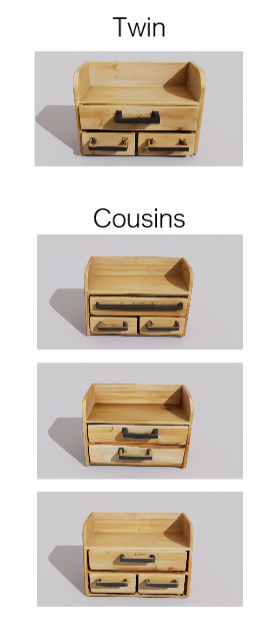
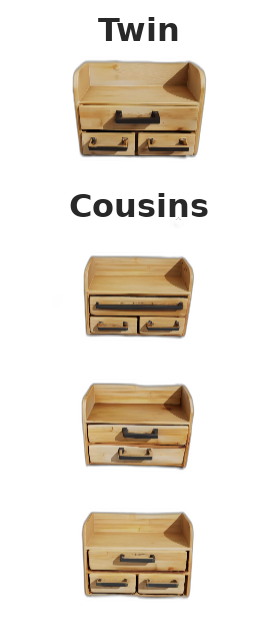
Stat cards, chart grow animations, and section polish
- Replace repeated task-cousins stat sentences with two before/after stat
  cards (28%->46%, 0%->29%) with count-up numbers and mini bars
- Animate co-training and SAM3D metric bar charts up from zero on first view
- Trim Stack Dishware sim eval video to first 38s
- Shrink co-training bar chart (360px -> 260px) and floating cousins cutout
- Pre-select the largest object in the Reconstructed Objects viewer
- Shorten co-training section title; keep stat card titles on one line

diff --git a/static/css/index.css b/static/css/index.css
@@ -660,8 +660,8 @@ a:hover { color: var(--color-accent-dark); text-decoration: underline; }
 }
 .cousin-fig {
   position: absolute;
-  top: 12px;
-  bottom: 12px;
+  top: 28px;
+  bottom: 28px;
   left: 12px;
   margin: 0;
   z-index: 2;
@@ -670,23 +670,92 @@ a:hover { color: var(--color-accent-dark); text-decoration: underline; }
   display: block;
   height: 100%;
   width: auto;
-  border-radius: 8px;
-  border: 2px solid rgba(255, 255, 255, 0.9);
-  box-shadow: 0 6px 22px rgba(0, 0, 0, 0.45);
+  /* transparent cutout floats over the video; shadow follows the object shapes */
+  filter: drop-shadow(0 4px 10px rgba(0, 0, 0, 0.55));
 }
 @media (max-width: 720px) {
-  .cousin-fig { top: 8px; bottom: 8px; left: 8px; }
+  .cousin-fig { top: 16px; bottom: 16px; left: 8px; }
 }
 
-/* Force a single subsection line (font scales with viewport to fit). */
-.subsection-title.oneline {
-  white-space: nowrap;
-  width: max-content;
-  max-width: 96vw;
-  font-size: clamp(0.7rem, 1.7vw, 1.4rem);
+/* ----------- Stat cards (task-cousins section) ----------- */
+.stat-lead {
+  text-align: center;
+  font-size: clamp(1rem, 1.9vw, 1.45rem);
+  font-weight: 600;
+  margin: 0 0 18px;
 }
+.stat-cards {
+  display: grid;
+  grid-template-columns: repeat(2, minmax(0, 1fr));
+  gap: 20px;
+  max-width: 940px;
+  margin: 0 auto;
+}
+.stat-card {
+  background: var(--color-card);
+  border: 1px solid var(--color-border);
+  border-radius: var(--radius-md);
+  box-shadow: 0 2px 10px var(--color-card-shadow);
+  padding: 18px 24px 22px;
+  text-align: center;
+}
+.stat-card-title {
+  font-weight: 600;
+  /* Keep titles like "On 7 held-out tasks (unseen even in sim)" on one line:
+     no wrapping, font scales down with the viewport instead. */
+  white-space: nowrap;
+  font-size: clamp(0.72rem, 1.15vw, 1rem);
+}
+.stat-card-note { font-size: 0.8em; color: var(--color-text-muted); font-weight: 500; }
+.stat-compare {
+  display: flex;
+  align-items: baseline;
+  justify-content: center;
+  gap: 12px;
+  margin: 6px 0 14px;
+}
+.stat-from {
+  font-size: 1.8rem;
+  font-weight: 700;
+  color: var(--color-text-muted);
+}
+.stat-arrow { font-size: 1.5rem; color: var(--color-text-muted); }
+.stat-to {
+  font-size: 2.5rem;
+  font-weight: 700;
+  line-height: 1;
+  color: var(--color-stanford-red);
+}
+.stat-bar-row {
+  display: grid;
+  grid-template-columns: 8.2em 1fr;
+  align-items: center;
+  gap: 10px;
+  margin-top: 8px;
+}
+.stat-bar-label {
+  font-size: 0.82rem;
+  color: var(--color-text-muted);
+  text-align: right;
+  white-space: nowrap;
+}
+.stat-bar-track {
+  height: 12px;
+  background: #eef0f3;
+  border-radius: 999px;
+  overflow: hidden;
+}
+.stat-bar {
+  height: 100%;
+  width: calc(var(--v) * 1%);
+  min-width: 4px; /* keep the 0% baseline visible as a sliver */
+  border-radius: inherit;
+  transition: width 0.9s cubic-bezier(0.22, 0.61, 0.36, 1);
+}
+.stat-bar--base { background: #b9bec7; }
+.stat-bar--boost { background: var(--color-stanford-red); }
 @media (max-width: 720px) {
-  .subsection-title.oneline { white-space: normal; width: min(1200px, 92vw); }
+  .stat-cards { grid-template-columns: 1fr; }
 }
 
 /* Keep the Task Cousins heading on one line (override base wrap/width). */
@@ -776,7 +845,7 @@ a:hover { color: var(--color-accent-dark); text-decoration: underline; }
 .barchart-ylabel {
   writing-mode: vertical-rl;
   transform: rotate(180deg);
-  height: 360px;
+  height: 260px;
   display: flex;
   align-items: center;
   justify-content: center;
@@ -784,7 +853,7 @@ a:hover { color: var(--color-accent-dark); text-decoration: underline; }
   font-size: 0.9rem;
 }
 .barchart-yaxis {
-  height: 360px;
+  height: 260px;
   display: flex;
   flex-direction: column;
   justify-content: space-between;
@@ -795,7 +864,7 @@ a:hover { color: var(--color-accent-dark); text-decoration: underline; }
 .barchart-col3 { min-width: 0; }
 .barchart-plot {
   position: relative;
-  height: 360px;
+  height: 260px;
   border-left: 2px solid var(--color-border);
   border-bottom: 2px solid var(--color-border);
 }
@@ -822,11 +891,11 @@ a:hover { color: var(--color-accent-dark); text-decoration: underline; }
   max-width: 28%;
   height: calc(var(--v) * 1%);
   border-radius: 3px 3px 0 0;
-  transition: height 0.6s ease-out;
+  transition: height 0.9s cubic-bezier(0.22, 0.61, 0.36, 1);
 }
 .bar-sim { background: #3b9aff; }
-.bar-real { background: #5cd65c; }
-.bar-cotrain { background: #ff6f61; }
+.bar-real { background: #5cd65c; transition-delay: 0.15s; }
+.bar-cotrain { background: #ff6f61; transition-delay: 0.3s; }
 .bar-val {
   position: absolute;
   top: -22px;
@@ -835,7 +904,17 @@ a:hover { color: var(--color-accent-dark); text-decoration: underline; }
   font-size: 0.95rem;
   font-weight: 600;
   color: var(--color-text);
+  transition: opacity 0.35s ease 0.9s;
 }
+
+/* First-view grow animation: JS marks `[data-chart-grow]` charts as pending
+   on load and releases them when they scroll into view, so bars rise from
+   zero to their real values. Without JS the static rules above apply. */
+.chart-grow-pending .bar { height: 0; }
+.chart-grow-pending .bar-val { opacity: 0; transition: none; }
+.chart-grow-pending .stat-bar { width: 0; min-width: 0; }
+.chart-grow-pending .mbar { height: 0; }
+.chart-grow-pending .mbar span { opacity: 0; transition: none; }
 .barchart-xlabels { display: flex; margin-top: 8px; }
 .barchart-xlabels span {
   flex: 1;
@@ -887,6 +966,7 @@ a:hover { color: var(--color-accent-dark); text-decoration: underline; }
   max-width: 34px;
   height: calc(var(--v) * 1%);
   border-radius: 3px 3px 0 0;
+  transition: height 0.9s cubic-bezier(0.22, 0.61, 0.36, 1);
 }
 .mbar span {
   position: absolute;
@@ -896,6 +976,7 @@ a:hover { color: var(--color-accent-dark); text-decoration: underline; }
   font-size: 0.6rem;
   white-space: nowrap;
   color: var(--color-text);
+  transition: opacity 0.35s ease 0.9s;
 }
 .mbar-sam { background: #3b9aff; }
 .mbar-zs { background: #5cd65c; }

diff --git a/static/js/viewers.js b/static/js/viewers.js
@@ -159,6 +159,50 @@ function wireLazyAutoplayVideos() {
   videos.forEach((video) => io.observe(video));
 }
 
+// Count `[data-countup]` numbers (e.g. "46%") up from zero, keeping any
+// non-numeric suffix. Runs alongside the bar-grow transition below.
+function animateCountUps(root) {
+  root.querySelectorAll("[data-countup]").forEach((el) => {
+    const target = parseFloat(el.textContent);
+    if (!isFinite(target)) return;
+    const suffix = el.textContent.replace(/^[\d.]+/, "");
+    const duration = 900;
+    const start = performance.now();
+    const tick = (now) => {
+      const t = Math.min((now - start) / duration, 1);
+      const eased = 1 - Math.pow(1 - t, 3); // ease-out, matches the bar curve
+      el.textContent = Math.round(target * eased) + suffix;
+      if (t < 1) requestAnimationFrame(tick);
+    };
+    requestAnimationFrame(tick);
+  });
+}
+
+// Charts marked with `data-chart-grow` start zeroed out and grow to their
+// real values the first time they scroll into view. Skipped (charts render
+// fully grown) for reduced-motion users and, via whenVisible's fallback,
+// where IntersectionObserver isn't available.
+function wireChartGrowAnimations() {
+  const charts = Array.from(document.querySelectorAll("[data-chart-grow]"));
+  if (!charts.length) return;
+  const reduceMotion =
+    window.matchMedia && window.matchMedia("(prefers-reduced-motion: reduce)").matches;
+  if (reduceMotion) return;
+  charts.forEach((chart) => {
+    chart.classList.add("chart-grow-pending");
+    whenVisible(
+      chart,
+      () => {
+        // Commit the zeroed layout before releasing it so the change animates.
+        void chart.offsetHeight;
+        chart.classList.remove("chart-grow-pending");
+        animateCountUps(chart);
+      },
+      { rootMargin: "-80px 0px" },
+    );
+  });
+}
+
 const SCENE_MANIFESTS = {
   "nv_desk":        "assets/viewers/nv_desk/scene.json",
   "kitchen_2_demo": "assets/viewers/kitchen_2_demo/scene.json",
@@ -1103,7 +1147,19 @@ async function wireInteractiveObjects() {
 
     objects = built.filter(Boolean).sort((a, b) => a.area - b.area); // smaller on top
     redraw();
+
+    // Pre-select a fixed default (the largest object — visually prominent and
+    // stable across reloads) so the mesh viewer starts populated instead of
+    // waiting for the user's first click.
+    if (objects.length) selectObject(objects[objects.length - 1]);
   }
+
+  const selectObject = (o) => {
+    selected = o;
+    redraw();
+    if (selectedLabel) selectedLabel.textContent = `— ${o.label}`;
+    loadMesh(meshContainer, o.url);
+  };
 
   sceneEl.addEventListener("mousemove", (ev) => {
     const [px, py] = toPixel(ev);
@@ -1135,10 +1191,7 @@ async function wireInteractiveObjects() {
     const [px, py] = toPixel(ev);
     const o = objectAt(px, py);
     if (!o) return;
-    selected = o;
-    redraw();
-    if (selectedLabel) selectedLabel.textContent = `— ${o.label}`;
-    loadMesh(meshContainer, o.url);
+    selectObject(o);
   });
 
   // Build the scene tab buttons and wire switching.
@@ -1171,6 +1224,7 @@ async function wireInteractiveObjects() {
 
 function init() {
   wireLazyAutoplayVideos();
+  wireChartGrowAnimations();
   wireTabbedViewer("scene-tabs", "scene-splat-viewer", SCENE_MANIFESTS, "scene-target");
   wireInteractiveObjects();
   wireSam3dComparison();

diff --git a/index.html b/index.html
@@ -13,7 +13,7 @@
 
 <link href="https://fonts.googleapis.com/css2?family=Source+Sans+3:wght@400;500;600;700&family=Source+Serif+4:opsz,wght@8..60,400;8..60,600;8..60,700&display=swap" rel="stylesheet" />
 
-<link rel="stylesheet" href="static/css/index.css?v=38" />
+<link rel="stylesheet" href="static/css/index.css?v=40" />
 
 <script type="importmap">
 {
@@ -608,7 +608,7 @@
           <figure class="qualitative-panel">
             <div class="qualitative-media">
               <video muted loop controls playsinline preload="none">
-                <source data-src="static/videos/real2sim/Stack_Dishware_sim.mp4" type="video/mp4" />
+                <source data-src="static/videos/real2sim/Stack_Dishware_sim.mp4?v=2" type="video/mp4" />
               </video>
             </div>
             <figcaption>SimFoundry<br><span class="success-rate">Success Rate: 64%</span></figcaption>
@@ -740,7 +740,7 @@
     <h3 class="subsection-title">SimFoundry Digital Cousins Enable Policy Generalization to <span class="accent-red">Novel Objects</span></h3>
     <div class="cousin-row">
       <figure class="cousin-fig">
-        <img src="static/images/wooden_drawer_cousins.png" alt="Digital twin and cousins of the wooden drawer organizer" />
+        <img src="static/images/wooden_drawer_cousins.png?v=3" alt="Digital twin and cousins of the wooden drawer organizer" />
       </figure>
       <div class="policy-media">
         <video loop muted playsinline preload="none" data-lazy-autoplay>
@@ -756,8 +756,45 @@
   <div class="container">
     <h2 class="section-title">SimFoundry generates meaningful <span class="accent-red">Task Cousins</span> that facilitate policy generalization</h2>
     <div class="stat-block">
-      <p class="subsection-title">SimFoundry data boosts real-world VLA performance from <span class="accent-red">28%</span> to <span class="accent-red">46%</span> across <span class="accent-red">13</span> tasks.</p>
-      <p class="subsection-title oneline">SimFoundry data boosts real-world VLA performance from <span class="accent-red">0%</span> to <span class="accent-red">29%</span> on <span class="accent-red">7</span> held-out tasks (unseen even in sim).</p>
+      <p class="stat-lead">SimFoundry data boosts real-world VLA performance</p>
+      <div class="stat-cards" data-chart-grow>
+        <div class="stat-card">
+          <div class="stat-card-title">Across <span class="accent-red">13</span> tasks</div>
+          <div class="stat-compare">
+            <span class="stat-from">28%</span>
+            <span class="stat-arrow" aria-hidden="true">&rarr;</span>
+            <span class="stat-to" data-countup>46%</span>
+          </div>
+          <div class="stat-bars">
+            <div class="stat-bar-row">
+              <span class="stat-bar-label">w/o SimFoundry</span>
+              <div class="stat-bar-track"><div class="stat-bar stat-bar--base" style="--v:28"></div></div>
+            </div>
+            <div class="stat-bar-row">
+              <span class="stat-bar-label">w/ SimFoundry</span>
+              <div class="stat-bar-track"><div class="stat-bar stat-bar--boost" style="--v:46"></div></div>
+            </div>
+          </div>
+        </div>
+        <div class="stat-card">
+          <div class="stat-card-title">On <span class="accent-red">7</span> held-out tasks <span class="stat-card-note">(unseen even in sim)</span></div>
+          <div class="stat-compare">
+            <span class="stat-from">0%</span>
+            <span class="stat-arrow" aria-hidden="true">&rarr;</span>
+            <span class="stat-to" data-countup>29%</span>
+          </div>
+          <div class="stat-bars">
+            <div class="stat-bar-row">
+              <span class="stat-bar-label">w/o SimFoundry</span>
+              <div class="stat-bar-track"><div class="stat-bar stat-bar--base" style="--v:0"></div></div>
+            </div>
+            <div class="stat-bar-row">
+              <span class="stat-bar-label">w/ SimFoundry</span>
+              <div class="stat-bar-track"><div class="stat-bar stat-bar--boost" style="--v:29"></div></div>
+            </div>
+          </div>
+        </div>
+      </div>
     </div>
     <div class="video-duo">
       <figure class="duo-col">
@@ -783,9 +820,9 @@
 <!-- ========================= CO-TRAINING ========================= -->
 <section class="section" id="co-training">
   <div class="container">
-    <h2 class="section-title">Co-Training with Large Amounts of SimFoundry Sim Data and Small Amounts of Real Data Produces Even Better Policies</h2>
+    <h2 class="section-title">Co-Training SimFoundry Sim Data and Small Amounts of Real Data Produces Even Better Policies</h2>
 
-    <figure class="barchart">
+    <figure class="barchart" data-chart-grow>
       <div class="barchart-legend">
         <span class="legend-item"><span class="legend-swatch swatch-sim"></span>Sim-only</span>
         <span class="legend-item"><span class="legend-swatch swatch-real"></span>Real-only</span>
@@ -912,7 +949,7 @@
       </div>
     </div>
 
-    <div class="metric-charts">
+    <div class="metric-charts" data-chart-grow>
       <div class="metric-panels">
         <div class="metric-panel">
           <div class="metric-panel-title">Easy Scene</div>
@@ -1006,7 +1043,7 @@
   </div>
 </footer>
 
-<script type="module" src="static/js/viewers.js?v=9"></script>
+<script type="module" src="static/js/viewers.js?v=10"></script>
 <script src="static/js/scatter-chart.js"></script>
 </body>
 </html>